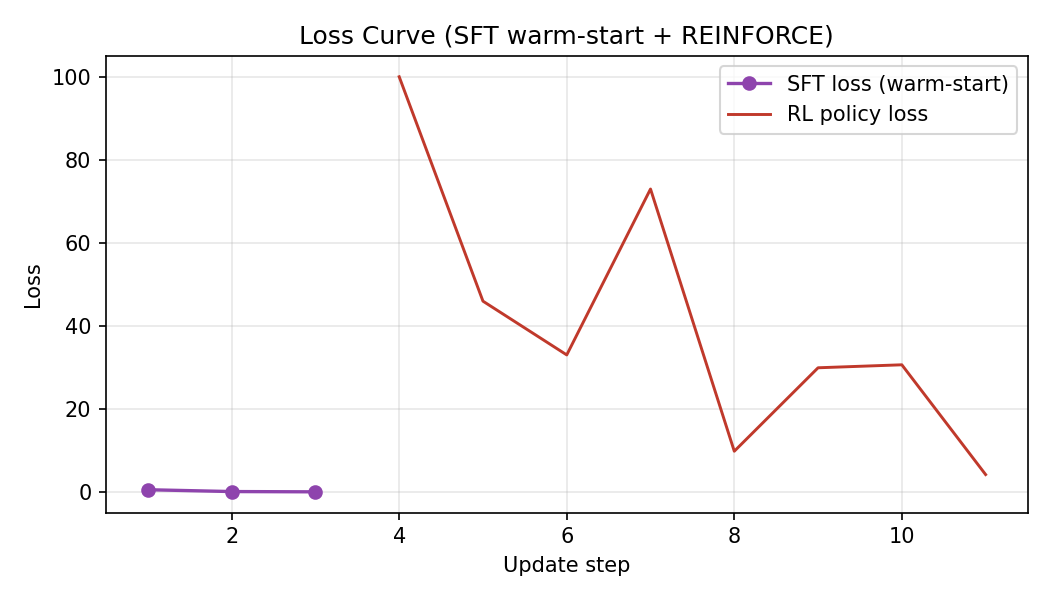
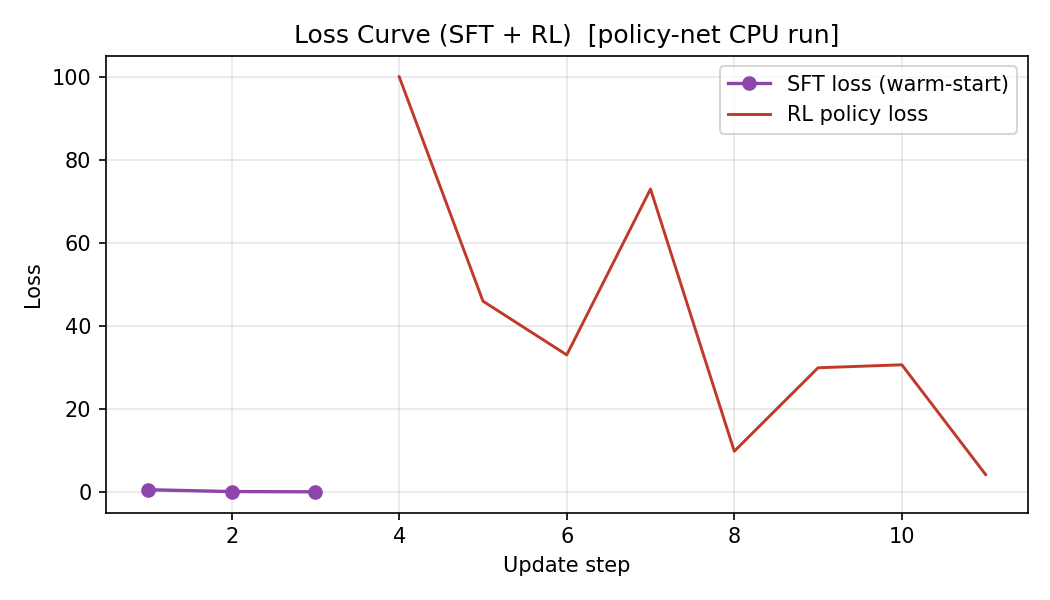
Fix GitHub notebook preview and reward_curve labelling
- notebooks/: nbformat_minor 0 -> 5 so GitHub's renderer handles the
  notebook correctly instead of showing raw JSON (single char change,
  no reformatting)
- README.md: add Open-in-Colab badge and a note for the raw-JSON
  fallback, directly below the project tagline
- scripts/generate_plots.py: fix avg_avg_cluster_health double-prefix
  bug (cluster health bar chart was always 0); add algo_label param to
  plot_reward_curve / plot_loss_curve so titles honestly say
  [policy-net CPU run] vs [LoRA/grpo] depending on trained_results.json
- results/: regenerate all 8 plots from real training_logs.jsonl with
  updated honest titles

smoke tests 17/17, PRD audit 155/155

Changed region(s): [[0.2743, 0.03, 0.7924, 0.09]]

diff --git a/scripts/generate_plots.py b/scripts/generate_plots.py
@@ -72,7 +72,7 @@ def _agent_summary(payload: Dict[str, Any]) -> Dict[str, Dict[str, float]]:
             "avg_cascade_count": s.get("avg_cascade_count", 0.0),
             "avg_guardrail_violations": s.get("avg_guardrail_violations", 0.0),
             "critical_completion_rate": s.get("critical_completion_rate", 0.0),
-            "avg_cluster_health": s.get("avg_avg_cluster_health", 0.0),
+            "avg_cluster_health": s.get("avg_cluster_health", s.get("avg_avg_cluster_health", 0.0)),
             "chaos_survival": s.get("avg_reward", 0.0) * s.get("critical_completion_rate", 0.0),
         }
     return out
@@ -82,7 +82,8 @@ def _agent_summary(payload: Dict[str, Any]) -> Dict[str, Dict[str, float]]:
 # Plots
 # ---------------------------------------------------------------------------
 
-def plot_reward_curve(training_logs: List[Dict[str, Any]], out_path: str) -> bool:
+def plot_reward_curve(training_logs: List[Dict[str, Any]], out_path: str,
+                      algo_label: str = "") -> bool:
     rl_entries = [e for e in training_logs if e.get("phase") == "rl" and isinstance(e.get("reward"), (int, float))]
     if not rl_entries:
         rl_entries = [e for e in training_logs if isinstance(e.get("reward"), (int, float))]
@@ -96,6 +97,7 @@ def plot_reward_curve(training_logs: List[Dict[str, Any]], out_path: str) -> boo
         )
     rewards = [float(e["reward"]) for e in rl_entries]
     episodes = [e.get("episode", e.get("step", i)) for i, e in enumerate(rl_entries)]
+    suffix = f"  [{algo_label}]" if algo_label else ""
     plt.figure(figsize=(7, 4))
     plt.plot(episodes, rewards, label="episode reward", linewidth=1.4, color="#2980b9")
     if len(rewards) >= 5:
@@ -104,7 +106,7 @@ def plot_reward_curve(training_logs: List[Dict[str, Any]], out_path: str) -> boo
                     for i in range(len(rewards))]
         plt.plot(episodes, smoothed, label=f"moving avg (window={window})",
                  linewidth=2.0, color="#c0392b")
-    plt.title("Reward Curve (live env rollouts)")
+    plt.title(f"Reward Curve (live env rollouts){suffix}")
     plt.xlabel("Training episode")
     plt.ylabel("Episode reward")
     plt.legend()
@@ -115,17 +117,19 @@ def plot_reward_curve(training_logs: List[Dict[str, Any]], out_path: str) -> boo
     return True
 
 
-def plot_loss_curve(training_logs: List[Dict[str, Any]], out_path: str) -> bool:
+def plot_loss_curve(training_logs: List[Dict[str, Any]], out_path: str,
+                    algo_label: str = "") -> bool:
     sft = [e for e in training_logs if e.get("phase") == "sft" and isinstance(e.get("loss"), (int, float))]
     rl = [e for e in training_logs if e.get("phase") == "rl" and isinstance(e.get("loss"), (int, float))]
     if not sft and not rl:
-        # Try generic.
         rl = [e for e in training_logs if isinstance(e.get("loss"), (int, float))]
     if not sft and not rl:
         return _placeholder_plot(
             out_path, title="Loss Curve", xlabel="Update step", ylabel="Loss",
             note="No training_logs.jsonl found — run scripts/train_trl.py to populate.",
         )
+    sft_steps: List = []
+    suffix = f"  [{algo_label}]" if algo_label else ""
     plt.figure(figsize=(7, 4))
     if sft:
         sft_steps = [e.get("epoch", e.get("step", i)) for i, e in enumerate(sft)]
@@ -133,11 +137,11 @@ def plot_loss_curve(training_logs: List[Dict[str, Any]], out_path: str) -> bool:
         plt.plot(sft_steps, sft_losses, label="SFT loss (warm-start)",
                  color="#8e44ad", linewidth=1.6, marker="o")
     if rl:
-        rl_x = [e.get("episode", i) + (max(sft_steps) if sft else 0) for i, e in enumerate(rl)]
+        rl_x = [e.get("episode", i) + (max(sft_steps) if sft_steps else 0) for i, e in enumerate(rl)]
         rl_losses = [float(e["loss"]) for e in rl]
         plt.plot(rl_x, rl_losses, label="RL policy loss",
                  color="#c0392b", linewidth=1.4)
-    plt.title("Loss Curve (SFT warm-start + REINFORCE)")
+    plt.title(f"Loss Curve (SFT + RL){suffix}")
     plt.xlabel("Update step")
     plt.ylabel("Loss")
     plt.legend()
@@ -246,6 +250,8 @@ def main():
     parser.add_argument("--evaluation", type=str, default=os.path.join(RESULTS, "evaluation_metrics.json"))
     parser.add_argument("--training-logs", type=str, default=os.path.join(RESULTS, "training_logs.jsonl"))
     parser.add_argument("--output-dir", type=str, default=RESULTS)
+    parser.add_argument("--trained-results", type=str,
+                        default=os.path.join(RESULTS, "trained_results.json"))
     args = parser.parse_args()
 
     os.makedirs(args.output_dir, exist_ok=True)
@@ -253,6 +259,17 @@ def main():
     baseline = _load_json(args.baseline) or {}
     evaluation = _load_json(args.evaluation)
     training_logs = _load_jsonl(args.training_logs)
+
+    # Derive a short label from trained_results.json so the plot titles are honest.
+    trained = _load_json(os.path.join(RESULTS, "trained_results.json")) or {}
+    schema = trained.get("schema", "")
+    algo = trained.get("rl_algo", "")
+    if "policy_net" in schema:
+        algo_label = "policy-net CPU run"
+    elif "llm_lora" in schema:
+        algo_label = f"LoRA/{algo}" if algo else "LoRA run"
+    else:
+        algo_label = algo or ""
 
     # Prefer evaluation_metrics for comparison plots (it includes BaseLLM/SFT/RL),
     # fall back to baseline if no evaluation file.
@@ -264,8 +281,8 @@ def main():
         metrics_summary = _agent_summary(baseline)
 
     plots = [
-        ("reward_curve.png", lambda p: plot_reward_curve(training_logs, p)),
-        ("loss_curve.png", lambda p: plot_loss_curve(training_logs, p)),
+        ("reward_curve.png", lambda p: plot_reward_curve(training_logs, p, algo_label)),
+        ("loss_curve.png", lambda p: plot_loss_curve(training_logs, p, algo_label)),
         ("outage_comparison.png", lambda p: plot_outage_comparison(metrics_summary, p)),
         ("cascade_count_comparison.png", lambda p: plot_cascade_count_comparison(metrics_summary, p)),
         ("critical_job_completion.png", lambda p: plot_critical_job_completion(metrics_summary, p)),

diff --git a/README.md b/README.md
@@ -3,6 +3,10 @@
 > A guarded adversarial OpenEnv benchmark for long-horizon AI infrastructure control.
 > Built for the Meta RL Hackathon Finale / OpenEnv Phase 2.
 
+[![Open In Colab](https://colab.research.google.com/assets/colab-badge.svg)](https://colab.research.google.com/github/Kabeer-Scaler/META_RL_HACKATHON_CLUSTERMIND/blob/main/notebooks/ClusterMind_TRL_Colab.ipynb)
+
+> **Note:** If GitHub shows the notebook as raw JSON, click the badge above to open it directly in Colab.
+
 ClusterMind is **not** a GPU allocator. It is a compact, fast, OpenEnv-compliant
 RL environment in which an LLM/RL agent operates a fragile AI compute cluster
 under partial observability, cascading failures, energy and cooling budgets,
